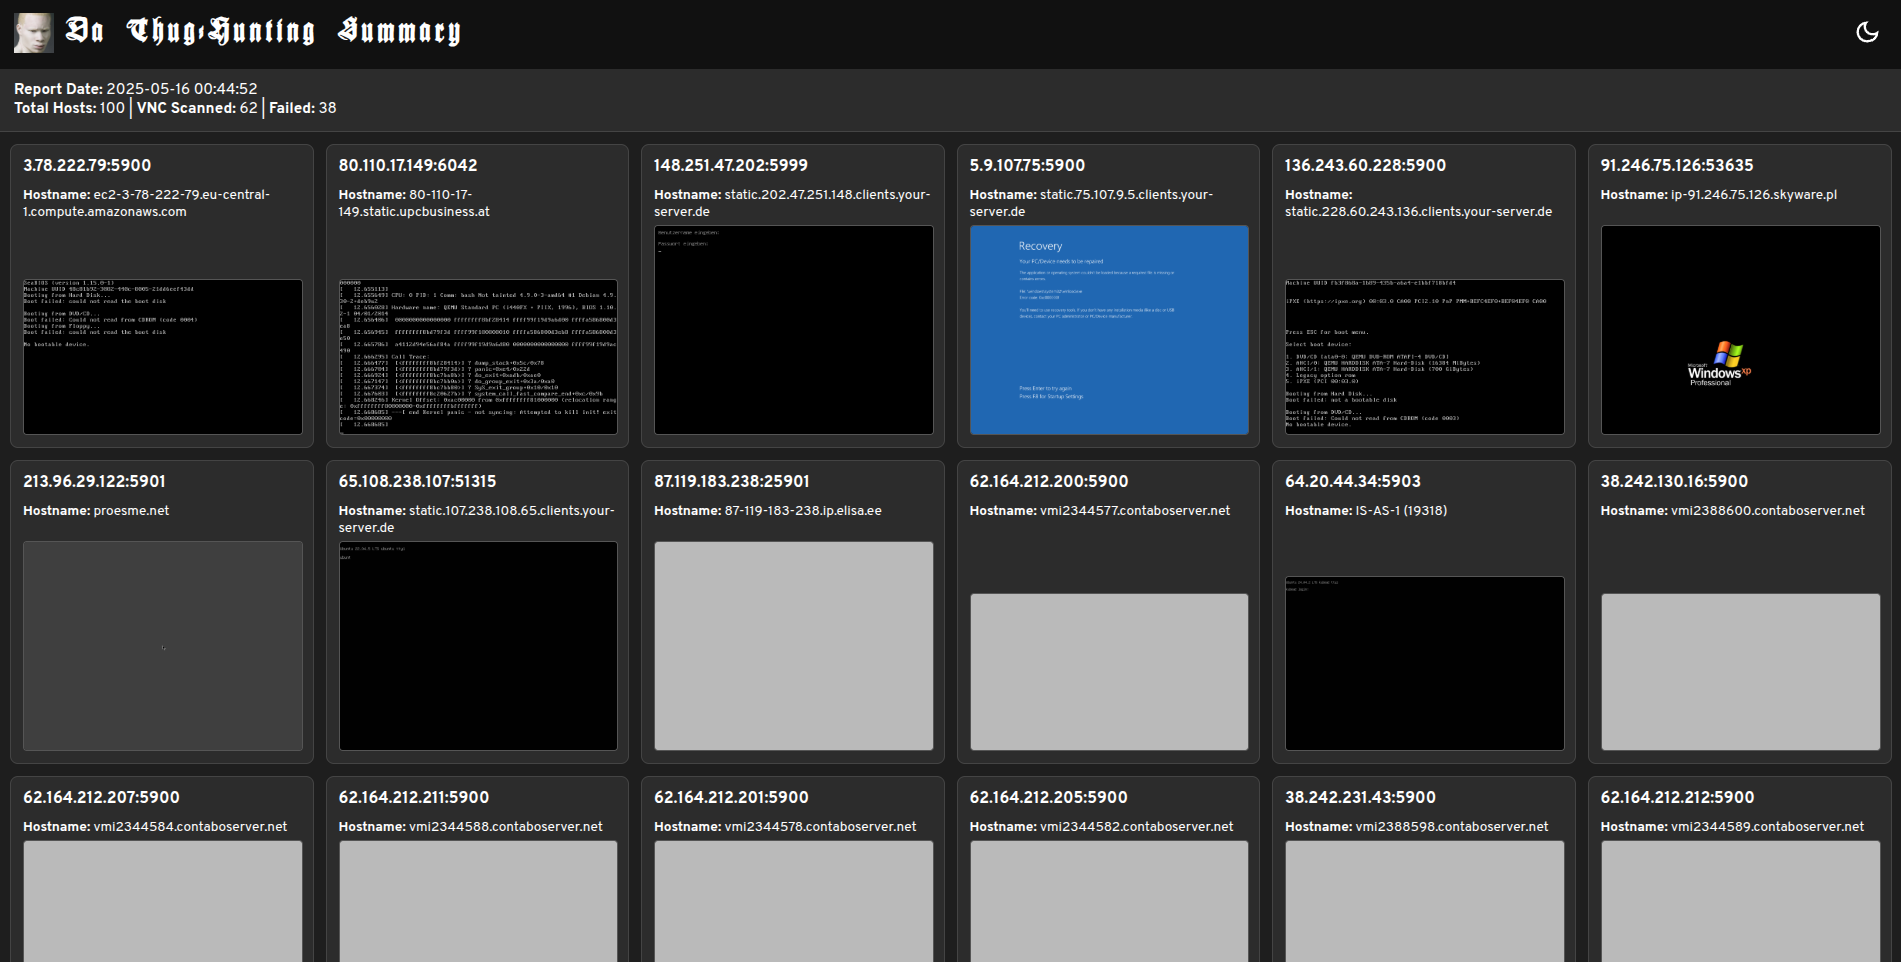
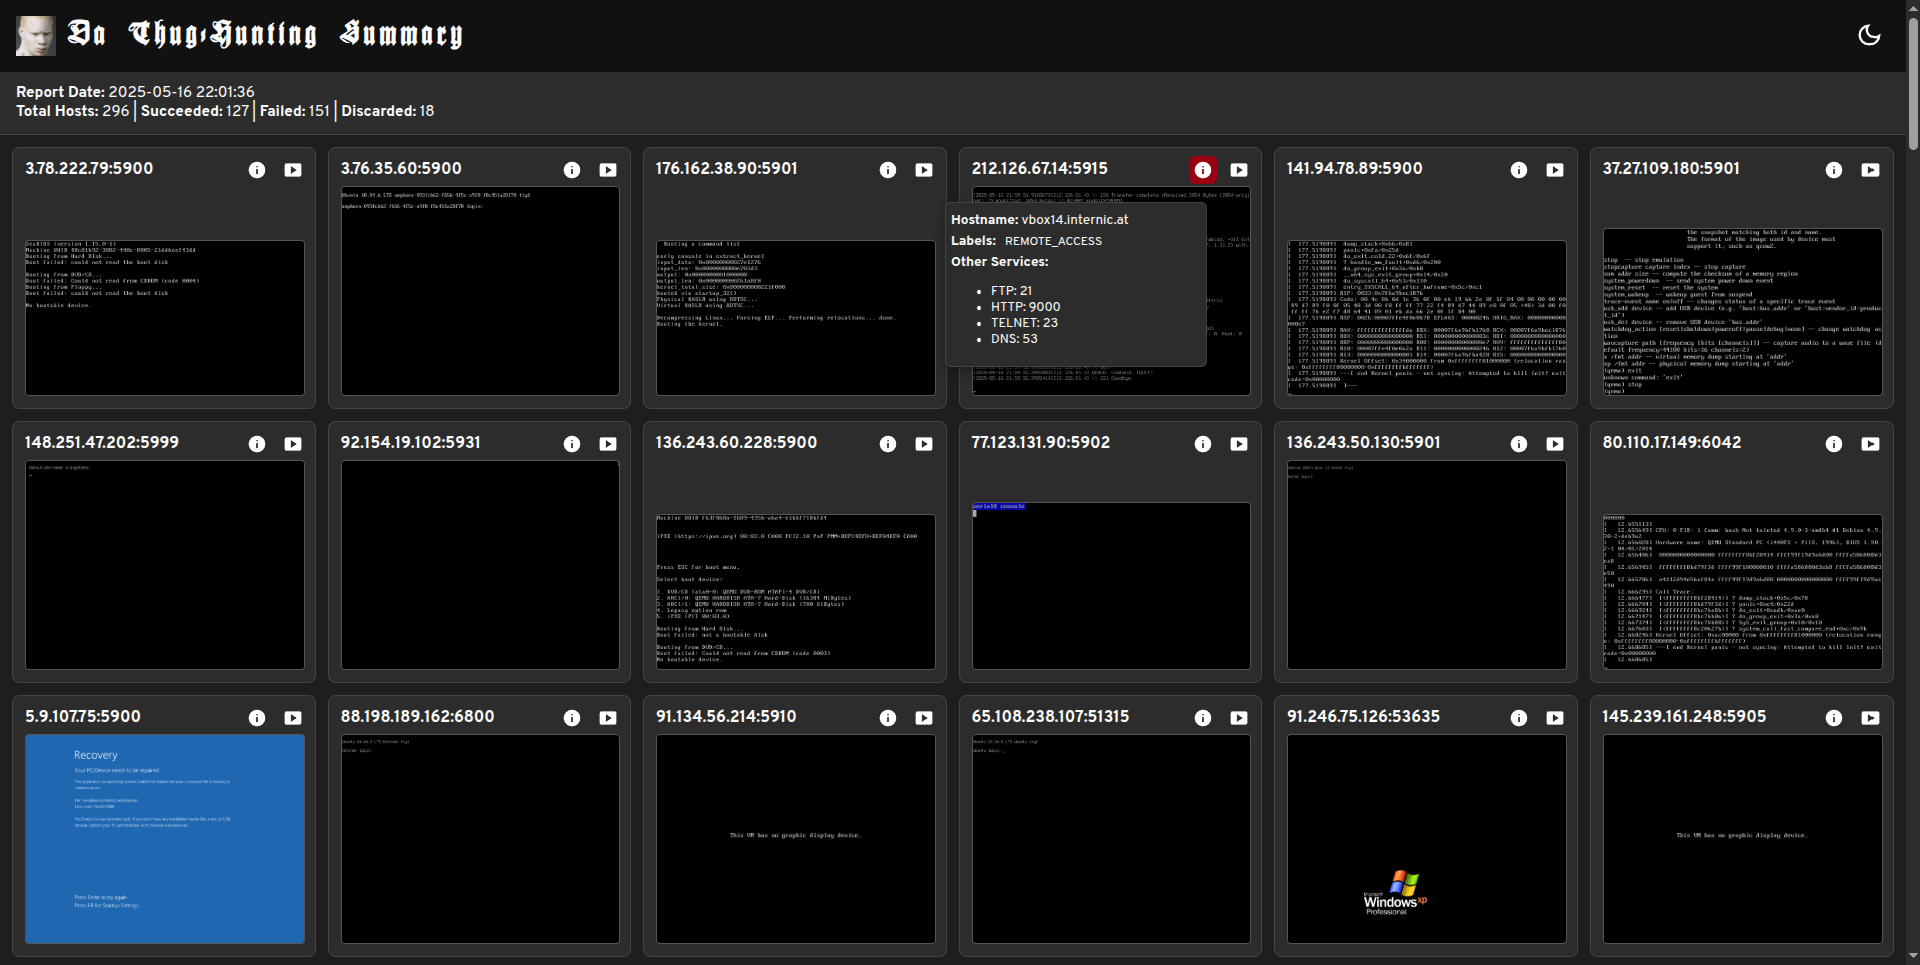
added more info on host cards

diff --git a/core/scanner/scanner.go b/core/scanner/scanner.go
@@ -29,6 +29,7 @@ type Result struct {
 	Hostname string
 	Labels   []string
 	Location string
+	Services map[string]int
 }
 
 func StartControlServer() {
@@ -240,6 +241,7 @@ func performParallelSnapshots(snapshotDir, discardedDir string, hosts []models.H
 					Hostname: h.Hostname,
 					Labels:   h.Labels,
 					Location: h.Location,
+					Services: h.Services,
 				})
 			}
 		}(host, port)
@@ -289,6 +291,49 @@ func writeReport(dir string, working []Result, failed []string, discardedCount i
 	fmt.Println("📄 Report saved")
 }
 
+func renderInfoText(hostname, location string) string {
+	var b strings.Builder
+	if hostname != "" {
+		b.WriteString(fmt.Sprintf("<p><strong>Hostname:</strong> %s</p>", hostname))
+	}
+	if location != "" {
+		b.WriteString(fmt.Sprintf("<p><strong>Location:</strong> %s</p>", location))
+	}
+	return b.String()
+}
+
+func renderLabels(labels []string) string {
+	if len(labels) == 0 {
+		return ""
+	}
+	var b strings.Builder
+	b.WriteString("<p><strong>Labels:</strong> ")
+	for i, label := range labels {
+		if i > 0 {
+			b.WriteString(", ")
+		}
+		b.WriteString(`<span class="label">` + label + `</span>`)
+	}
+	b.WriteString("</p>")
+	return b.String()
+}
+
+func renderServices(services map[string]int) string {
+	if len(services) == 0 {
+		return ""
+	}
+	var b strings.Builder
+	b.WriteString("<p><strong>Other Services:</strong><ul>")
+	for name, port := range services {
+		if name == "VNC" {
+			continue
+		}
+		b.WriteString(fmt.Sprintf("<li>%s: %d</li>", name, port))
+	}
+	b.WriteString("</ul></p>")
+	return b.String()
+}
+
 func writeHTMLSummary(dir string, working []Result, failed []string, discarededCount int) {
 	now := time.Now()
 	dateStr := now.Format("2006-01-02_15-04-05")
@@ -306,6 +351,7 @@ func writeHTMLSummary(dir string, working []Result, failed []string, discarededC
 	lightSVG, _ := os.ReadFile("./assets/light_mode.svg")
 	fontData, _ := os.ReadFile("./assets/killig.woff2.b64")
 	vncConnectSVG, _ := os.ReadFile("./assets/vnc_connect.svg")
+	hostInfoSVG, _ := os.ReadFile("./assets/host_info.svg")
 
 	failedCount := len(failed)
 	totalCount := len(working) + failedCount
@@ -488,6 +534,56 @@ button:hover {
 .card {
 	position: relative;
 }
+.label {
+	border-radius: 4px;
+	padding: 2px 6px;
+	font-size: 0.75rem;
+	white-space: nowrap;
+}
+.vnc-info-button {
+	position: absolute;
+	top: 8px;
+	right: 44px;
+	width: 28px;
+	height: 28px;
+	background-color: var(--btn-bg);
+	border-radius: 6px;
+	display: flex;
+	align-items: center;
+	justify-content: center;
+	cursor: pointer;
+	transition: background-color 0.2s ease-in-out;
+}
+
+.vnc-info-button svg {
+	width: 20px;
+	height: 20px;
+	fill: var(--icon-fill);
+}
+
+.vnc-info-button:hover {
+	background-color: var(--btn-hover);
+}
+
+.info-pane {
+	display: none;
+	position: absolute;
+	top: 36px;
+	right: 0;
+	background-color: var(--card-bg);
+	border: 1px solid var(--border);
+	padding: 5px;
+	margin: 10px;
+	border-radius: 6px;
+	width: 250px;
+	box-shadow: 0 4px 12px rgba(0, 0, 0, 0.3);
+	z-index: 999;
+	font-size: 0.8rem;
+}
+
+.vnc-info-button:hover .info-pane {
+	display: block;
+}
 </style>
 </head>
 <body>
@@ -506,7 +602,7 @@ button:hover {
 <div class="stats">
 	<div><strong>Report Date:</strong> ` + now.Format("2006-01-02 15:04:05") + `</div>
 	<div><strong>Total Hosts:</strong> ` + strconv.Itoa(totalHosts) + ` |
-	<strong>Succeeded:</strong> ` + strconv.Itoa(totalCount - failedCount - discarededCount) + ` |
+	<strong>Succeeded:</strong> ` + strconv.Itoa(totalCount-failedCount-discarededCount) + ` |
 	<strong>Failed:</strong> ` + strconv.Itoa(failedCount) + ` |
 	<strong>Discarded:</strong> ` + strconv.Itoa(discarededCount) + `</div>
 	</div>
@@ -515,21 +611,29 @@ button:hover {
 <div class="grid">`)
 
 	for _, r := range working {
-		f.WriteString(`<div class="card">`)
-		f.WriteString(fmt.Sprintf("<h2>%s:%d</h2>", r.IP, r.Port))
-		if r.Hostname != "" {
-			f.WriteString(fmt.Sprintf("<p><strong>Hostname:</strong> %s</p>", r.Hostname))
-		}
-		if r.Location != "" {
-			f.WriteString(fmt.Sprintf("<p><strong>Location:</strong> %s</p>", r.Location))
-		}
-		f.WriteString(fmt.Sprintf(`<img src="%s" alt="Snapshot of %s">`, r.Filename, r.IP))
 		f.WriteString(fmt.Sprintf(`
-		<div class="vnc-icon-button" onclick="launchVNC('%s', '%d')" title="Connect via VNC">
-			%s
-		</div>
-		`, r.IP, r.Port, string(vncConnectSVG)))
-		f.WriteString(`</div>`)
+		<div class="card">
+			<h2>%s:%d</h2>
+			<img src="%s" alt="Snapshot of %s" onclick="showOverlay('%s')">
+		
+			<div class="vnc-icon-button" onclick="launchVNC('%s', '%d')" title="Connect via VNC">%s</div>
+		
+			<div class="vnc-info-button" onmouseover="showInfo(this)" onmouseout="hideInfo(this)">
+				%s
+				<div class="info-pane">
+					%s
+					%s
+					%s
+				</div>
+			</div>
+		</div>`,
+			r.IP, r.Port,
+			r.Filename, r.IP, r.Filename,
+			r.IP, r.Port, string(vncConnectSVG),
+			string(hostInfoSVG),
+			renderInfoText(r.Hostname, r.Location),
+			renderLabels(r.Labels),
+			renderServices(r.Services)))
 	}
 
 	f.WriteString(`</div>
